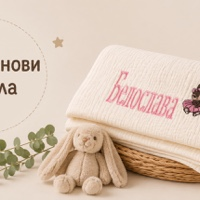
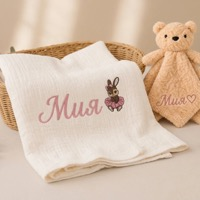
feat(home): new muslin blanket image for category card + menu
Replace the muslin blankets category card and menu thumbnail with the
new blanket+bear comforter photo (blanket in focus, matching 'Мия'
embroidery). Image is 4:3 so it fits the card with no cropping.

Claude-Session: https://claude.ai/code/session_01FGLmkFtEAq7UU3whpjzDuc

diff --git a/components/CategoryPromos/index.vue b/components/CategoryPromos/index.vue
@@ -50,7 +50,7 @@ const categories: CategoryPromo[] = [
   { id: 5, title: "Ключодържатели", image: "/img/home/keychains-card.webp", link: "/category/keychains" },
   { id: 6, title: "Плюшени играчки", image: "/img/home/plush-toys.webp", link: "/category/personalizirani-plusheni-igrachki" },
   { id: 7, title: "Персонализирани гергефи", image: "/img/banners/banner4.jpg", link: "/category/personalizirani-gergefi" },
-  { id: 8, title: "Муселинови одеяла", image: "/img/banners/blankets-promo.jpg", link: "/category/kids-blankets" },
+  { id: 8, title: "Муселинови одеяла", image: "/img/home/blankets-card.webp", link: "/category/kids-blankets" },
 ];
 </script>
 
